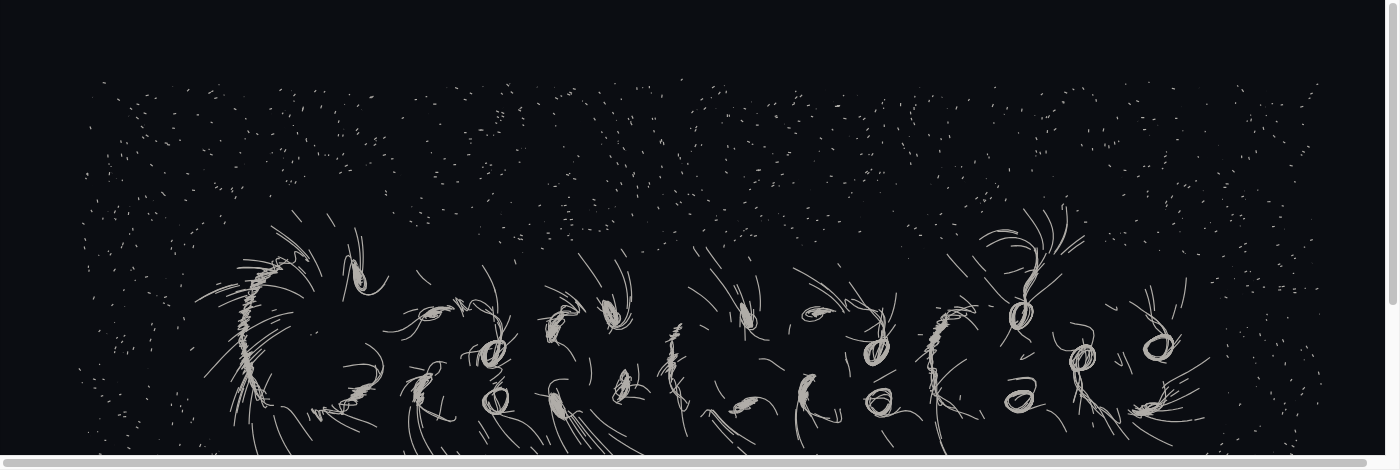
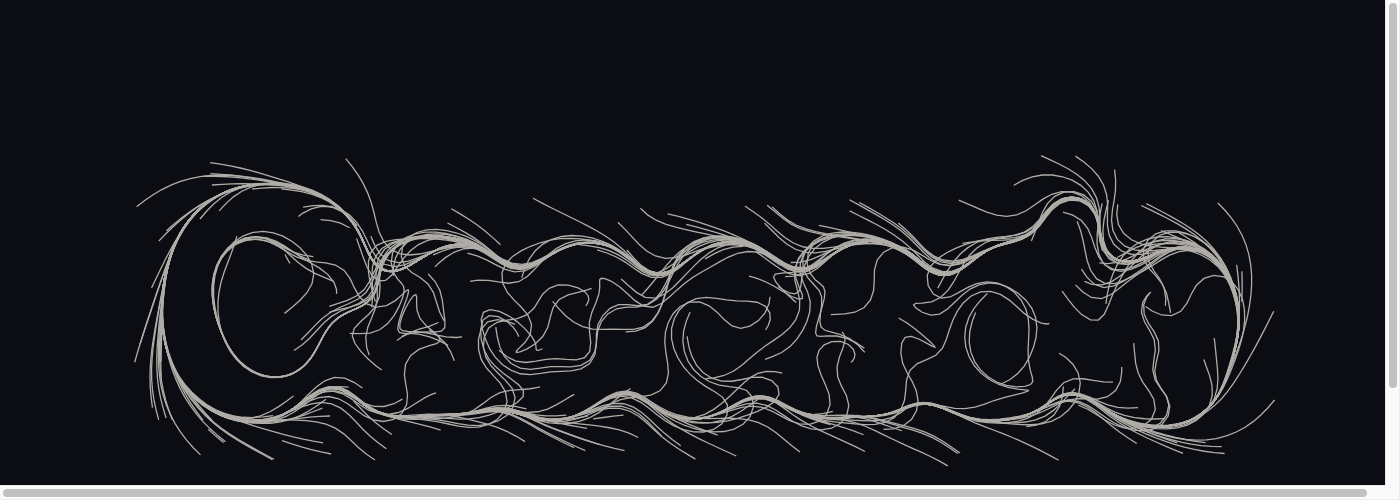
particle-word: elegant calligraphy, and why fewer particles give longer lines
Long lines need FEWER particles, not more — impulse 3 a frame with a 30
second life and a 140 frame trail gives a few hundred long strokes, where
raising the count gives many short ones, which is exactly the hairball
Marcus asked to avoid.

Nothing should fight the field: noise, separation and most of the drag all
went to zero, and every one of them was adding a knot. The README records
the four failure modes as a table, because none of them reads as a
parameter problem — vortices with no word, particles that stop travelling,
hairballs, and knots.

Changed region(s): [[0.0, 0.2979, 0.9829, 0.983], [0.9829, 0.6553, 1.0, 0.7745], [0.7371, 0.8936, 0.7679, 0.9234]]

diff --git a/particle-word/nodes/word-field/index.ts b/particle-word/nodes/word-field/index.ts
@@ -43,7 +43,8 @@ export const definition = {
      */
     blur: { type: 'int', default: 5, min: 0, max: 40 },
     /** Cells whose gradient is weaker than this are dropped, so the field is
-     *  points near the word rather than a full grid of mostly-nothing. */
+     *  points near the word rather than a full grid of mostly-nothing. Lower it
+     *  to reach further out from the type, which is what a bundle needs. */
     threshold: { type: 'float', default: 0.008, min: 0, max: 1, step: 0.001 },
     weight: {
       type: 'string',
@@ -143,6 +144,9 @@ export async function execute(context: NodeExecutionContext<typeof definition>) 
   const field = blurred(luminance, columns, rows, blur);
   const builder = new GeometryBuilder({ positionSize: 2 });
   const normals: number[] = [];
+  // The field's value as well as its direction, so a force can hold a level
+  // rather than only climb. A bundle is a contour, and a contour is a level.
+  const levels: number[] = [];
 
   const sample = (column: number, row: number): number =>
     field[
@@ -167,11 +171,13 @@ export async function execute(context: NodeExecutionContext<typeof definition>) 
       // Normalised: the force's own amplitude decides strength, so a field
       // carrying magnitude as well would give two places to tune one thing.
       normals.push(dx / magnitude, dy / magnitude);
+      levels.push(sample(column, row));
     }
   }
 
   if (normals.length > 0) {
     builder.setNumericAttribute('point', 'N', Float32Array.from(normals), 2, 'f32');
+    builder.setNumericAttribute('point', 'level', Float32Array.from(levels), 1, 'f32');
   }
   context.outputs.geometry.set(builder.build());
 }

diff --git a/particle-word/README.md b/particle-word/README.md
@@ -16,17 +16,26 @@ word-field → pop.Simulate → geo.SvgExport → core.Output
 
 **`cascade.geo.SvgExport`** writes the trails. About 2,500 short strokes.
 
-### The two numbers that matter
+### Getting calligraphy rather than hairballs
 
-`field_normal` against `field_tangential` is the balance, and it is delicate in both directions:
+Marcus, arriving at what the effect actually is: *"the lines flow tangentially around the letters in a bundle … loosely describing the type"*, and then *"we want the lines to extend and really flow around the letters, creating an elegant calligraphy… not hairballs or knots."*
+
+Three settings do almost all of that, and the reasoning behind each is more useful than its value:
+
+**A bundle is a contour, and a contour is a level set.** So the way to get one is *not* to pull particles toward the spine — that collapses each letter onto a point with radial spokes. `field_normal` is **0**, and `field_hold` keeps each particle at the `field_level` it started near while `field_tangential` carries it round. Pure tangential flow with no hold also fails, differently: every particle converges onto one level set, and the whole word came out as a single line along its baseline.
+
+**Long lines need few particles, not more.** `impulse` 3 a frame with a 30 second life and a 140 frame trail gives a few hundred long strokes. The instinct is to raise the particle count; that gives many short strokes, which is exactly the hairball. Fewer and longer is the whole difference between this and a mess.
+
+**Nothing should fight the field.** `noise_amplitude` 0, `separate_radius` 0, and drag at 0.12 — low enough that a particle keeps its momentum right around a letter. Every one of those was non-zero in earlier attempts and each added a knot.
 
 | | |
 | --- | --- |
-| tangential ≫ normal | vortices. Beautiful, and the word is gone |
-| normal ≫ tangential | particles collapse onto the spine as points with radial spokes |
-| roughly 3:2 | the word forms out of curling strokes |
+| tangential ≫ hold | vortices. Beautiful, and the word is gone |
+| hold ≫ tangential | particles sit on the contour and stop travelling |
+| high impulse, short trails | hairballs |
+| noise or separation above zero | knots where lines should be smooth |
 
-`blur` interacts with it more than it looks. Too much and each letter merges into one blob whose ridge is a single peak, so the spine collapses to a point — which reads as the *forces* being wrong when it is the field. At this grid, 3 keeps each stroke its own ridge.
+`blur` interacts with all of it more than it looks. Too much and each letter merges into one blob whose ridge is a single peak, so the spine collapses to a point — which reads as the *forces* being wrong when it is the field.
 
 **Particles spawn in `birth_area`, around the type rather than on it.** Birthing them on the letterforms puts every particle where it is already going, so nothing travels and the field has nothing to reveal.
 
